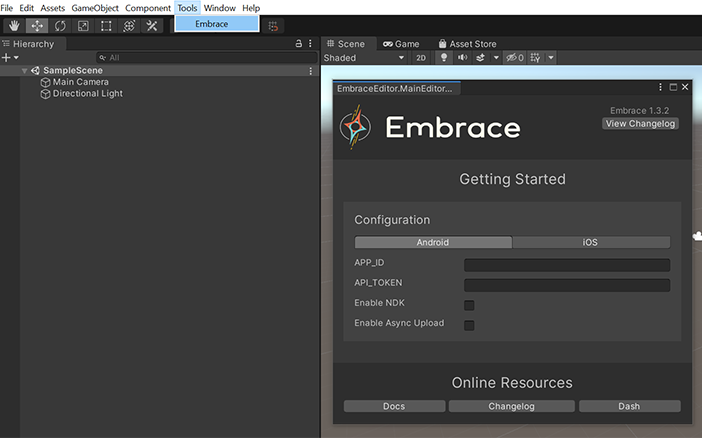
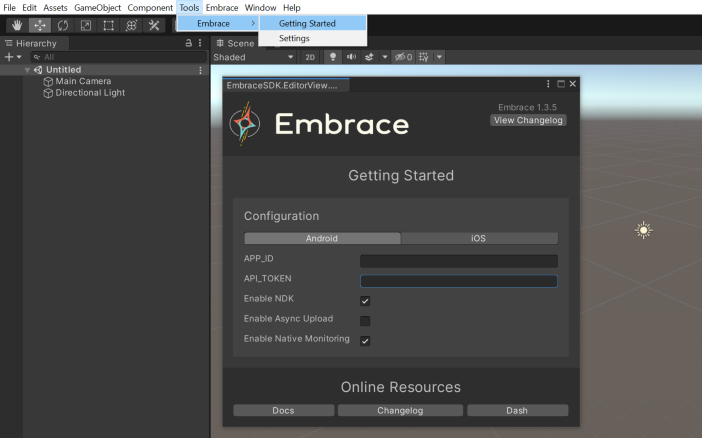
Unity build options (#100)
* Update changelog and images

* added Build Options page

* PR fixes

Changed region(s): [[0.0, 0.0, 1.0, 1.0], [0.0299, 0.1484, 0.1795, 0.2374]]

diff --git a/content/unity/features/build-options.md b/content/unity/features/build-options.md
@@ -1,0 +1,18 @@
+---
+title: Build Options
+description: Build Options for the Embrace Unity SDK
+weight: 4
+aliases:
+  - /Unity/build-options/
+---
+
+# Build Options
+
+## Configuration Environments
+{{< image src="/docs/images/unity-environments.png" alt="Image showing Configuration Enviroments" width="1709" height="790" >}}
+In the Settings window under the configurations tab, we have an option that allows the creation of environments. This is a nice feature if you have multiple environments that you want to gather data from. Adding an environment to the list enables you to manage your configurations in the Getting Started window based on your desired environment.
+
+## Custom Android Configurations
+{{< image src="/docs/images/custom-android-configurations.png" alt="Image showing the Custom Android Configurations" caption="The location of the Embrace Unity Editor in the Embrace package." width="942" height="682" >}}
+At build time the Embrace SDK creates a config file based on the values provided in the Android sections of the Getting Started window, This file is named `embrace-config.json` and is placed in `Temp/gradleOut/launcher/src/main`. The Android config file supports many more options than those made available in the Getting Started window. Because of this, we have added a text field in the configurations tab that enables you to write your own config settings that will override the settings generated by the SDK. 
+  

diff --git a/content/unity/integration/configure-embrace-android.md b/content/unity/integration/configure-embrace-android.md
@@ -12,7 +12,7 @@ The Embrace Unity SDK includes an editor script to assist with properly linking 
 
 # Configure the Android platform
 
-Go to Tools -> Embrace and click on it to reveal the Embrace editor window. Select the Android tab and there fill in your unique `APP_ID` and `API_TOKEN`. You can get the correct values from the settings page in your dash.
+Go to Tools -> Embrace -> Getting Started and click on it to reveal the Embrace editor window. Select the Android tab and fill in your unique `APP_ID` and `API_TOKEN`. You can get the correct values from the settings page in your dash.
 
 {{< image src="/docs/images/android-configure-editor-window.png" alt="Image showing the location of the Embrace Unity Editor within the Embrace package" caption="The location of the Embrace Unity Editor in the Embrace package." width="702" height="438" >}}
 

diff --git a/content/unity/integration/configure-embrace-ios.md b/content/unity/integration/configure-embrace-ios.md
@@ -12,7 +12,7 @@ The Embrace Unity SDK includes an editor script to assist with properly linking 
 
 # Configure the iOS platform
 
-Go to Tools -> Embrace and click on it to reveal the Embrace editor window. Select the ios tab and there go ahead and fill in the missing `APP_ID` and `API_TOKEN`. You can get the correct values from the settings page in your dash.
+Go to Tools -> Embrace -> Getting Started and click on it to reveal the Embrace editor window. Select the iOS tab and fill in the missing `APP_ID` and `API_TOKEN`. You can get the correct values from the settings page in your dash.
 
 {{< image src="/docs/images/ios-configure-editor-window.png" alt="Image showing the location of the Embrace Unity Editor within the Embrace package" caption="The location of the Embrace Unity Editor in the Embrace package." width="702" height="438" >}}
 

diff --git a/content/unity/features/_index.md b/content/unity/features/_index.md
@@ -13,4 +13,5 @@ how your application is performing in production.
 1. [**Measure Performance.**]({{< relref "/unity/features/performance-monitoring" >}}) In this section you will learn how you can use Embrace to go beyond logging and crashes and start to examine critical user flows within your application. Measure performance, completion and abandonment easily and consistently.
 1. [**Know your users.**]({{< relref "/unity/features/identify-users" >}}) Add your own custom identifiers to users and sessions to make sure you can aggregate and find sessions correctly.
 1. [**Tracking Views.**]({{< relref "/unity/features/tracking-views" >}}) Track custom views using the Embrace SDK.
+1. [**Build Options**]({{< relref "/unity/features/build-options" >}}) The Embrace Unity Editor Windows have options that can modify the build process.
 

diff --git a/content/unity/changelog.md b/content/unity/changelog.md
@@ -6,6 +6,13 @@ weight: 4
 
 # Unity SDK Changelog
 
+## 1.3.7
+*January 24, 2022*
+
+* Introduces a Settings Window which exposes new features and settings using an editor window.
+* Allows users to create and manage environments which enables you to handle configurations based on your desired environment.
+* Added A text field that allows users to add Android settings to the embrace-config.json file that are not currently provided by the Unity SDK editor windows.
+
 ## 1.3.6
 *January 03, 2022*
 
